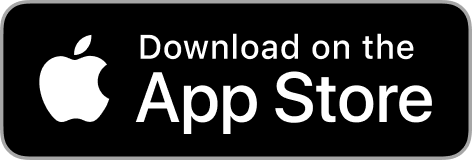
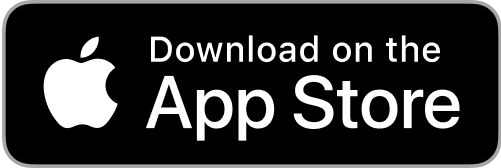
Updating UI

diff --git a/components/MainBanner/MainBanner.tsx b/components/MainBanner/MainBanner.tsx
@@ -37,7 +37,7 @@ const MainBanner: React.FC<MainBannerProps> = ({
                 flex: 1,
                 paddingTop: { xs: imageBackground && '30px' },
                 py: imageBackground ? undefined : { xs: 8, lg: 8 },
-                textAlign: imageBackground ? 'left' : { xs: 'center', lg: 'left' },
+                textAlign: { xs: 'center', lg: 'left' },
             }}
         >
             <Container maxWidth="lg">
@@ -56,7 +56,7 @@ const MainBanner: React.FC<MainBannerProps> = ({
                         <Box
                             display="flex"
                             justifyContent={{ xs: 'center', md: 'center', lg: 'flex-start' }}
-                            alignItems={imageBackground ? "baseline" : "center"}
+                            alignItems={"center"}
                             flexDirection={{ xs: 'column', lg: 'row' }}
                             alignSelf={{ md: 'center' }}
                             gap={2}

diff --git a/components/Footer/Footer.tsx b/components/Footer/Footer.tsx
@@ -91,7 +91,7 @@ const Footer: React.FC = () => {
                         <Box textAlign="center" sx={{ padding: 2, borderRadius: 2 }}>
                             <img src="/iosqr.png" alt="QR Code" style={{ width: '178px', marginBottom: '8px' }} />
                             <Box display="flex" justifyContent="center" gap={1}>
-                                <img src="/iosButton.png" alt="Google Play" onClick={() => window.open('https://apps.apple.com/us/app/linked-golf/id1619093321', '_blank')} style={{ width: '120px' }} />
+                                <img src="/iosButton.png" alt="Google Play" onClick={() => window.open('https://apps.apple.com/us/app/linked-golf/id1619093321', '_blank')} style={{ width: '120px',objectFit:'cover' }} />
                             </Box>
                         </Box>
                         <Box textAlign="center" sx={{ padding: 2, borderRadius: 2 }}>
